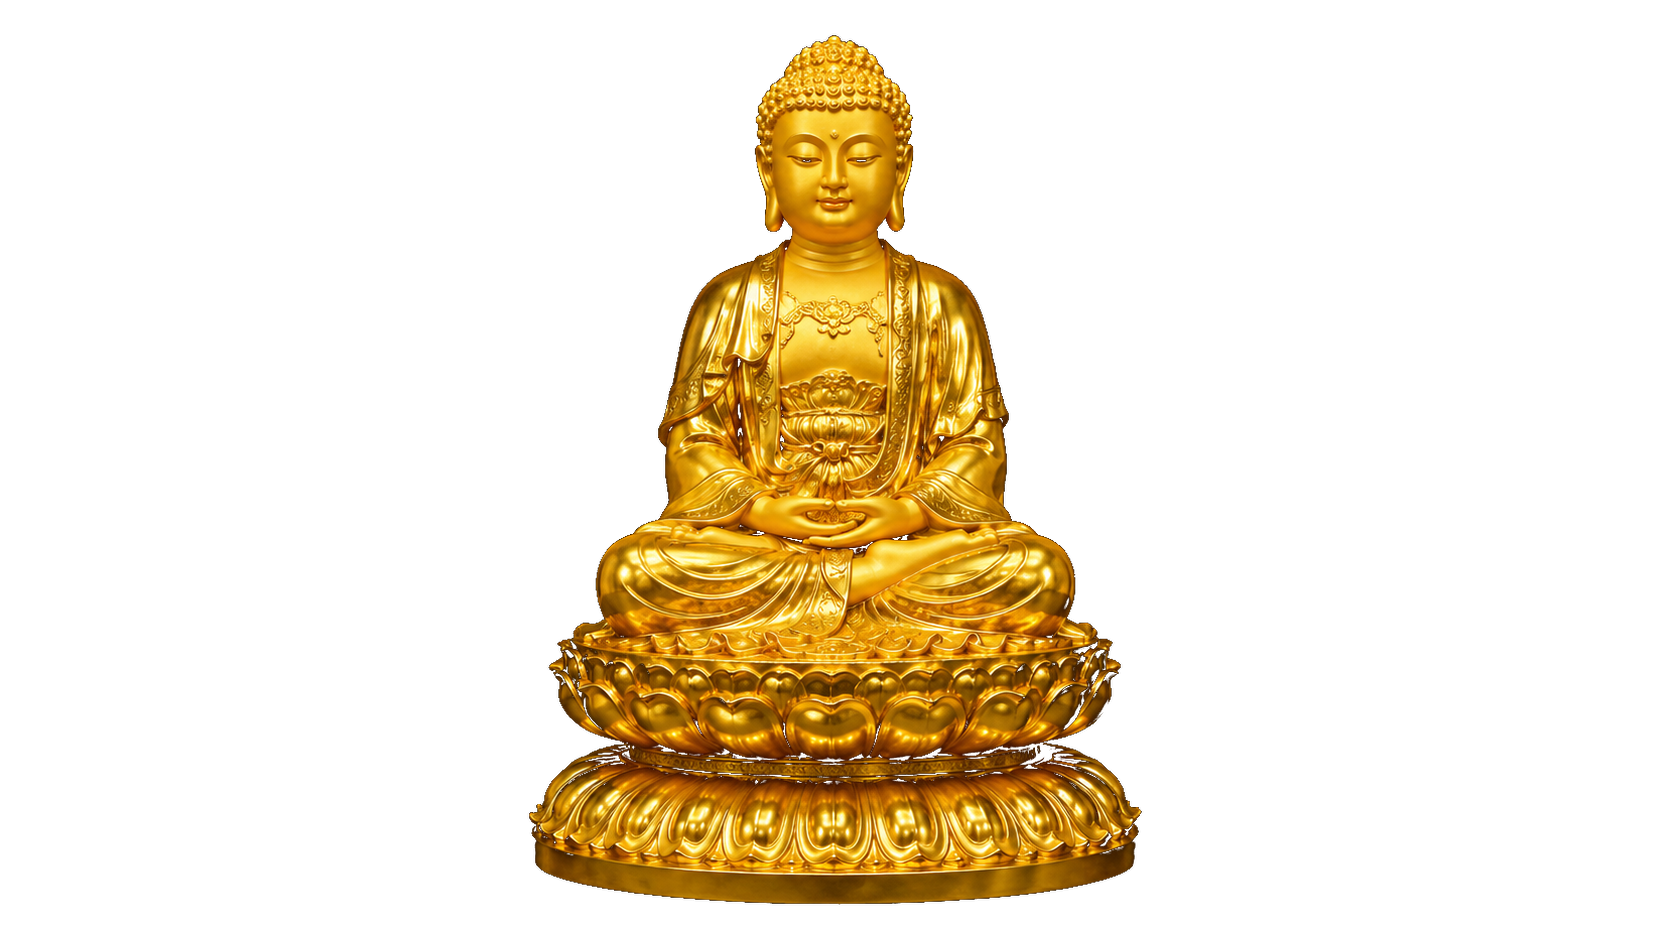
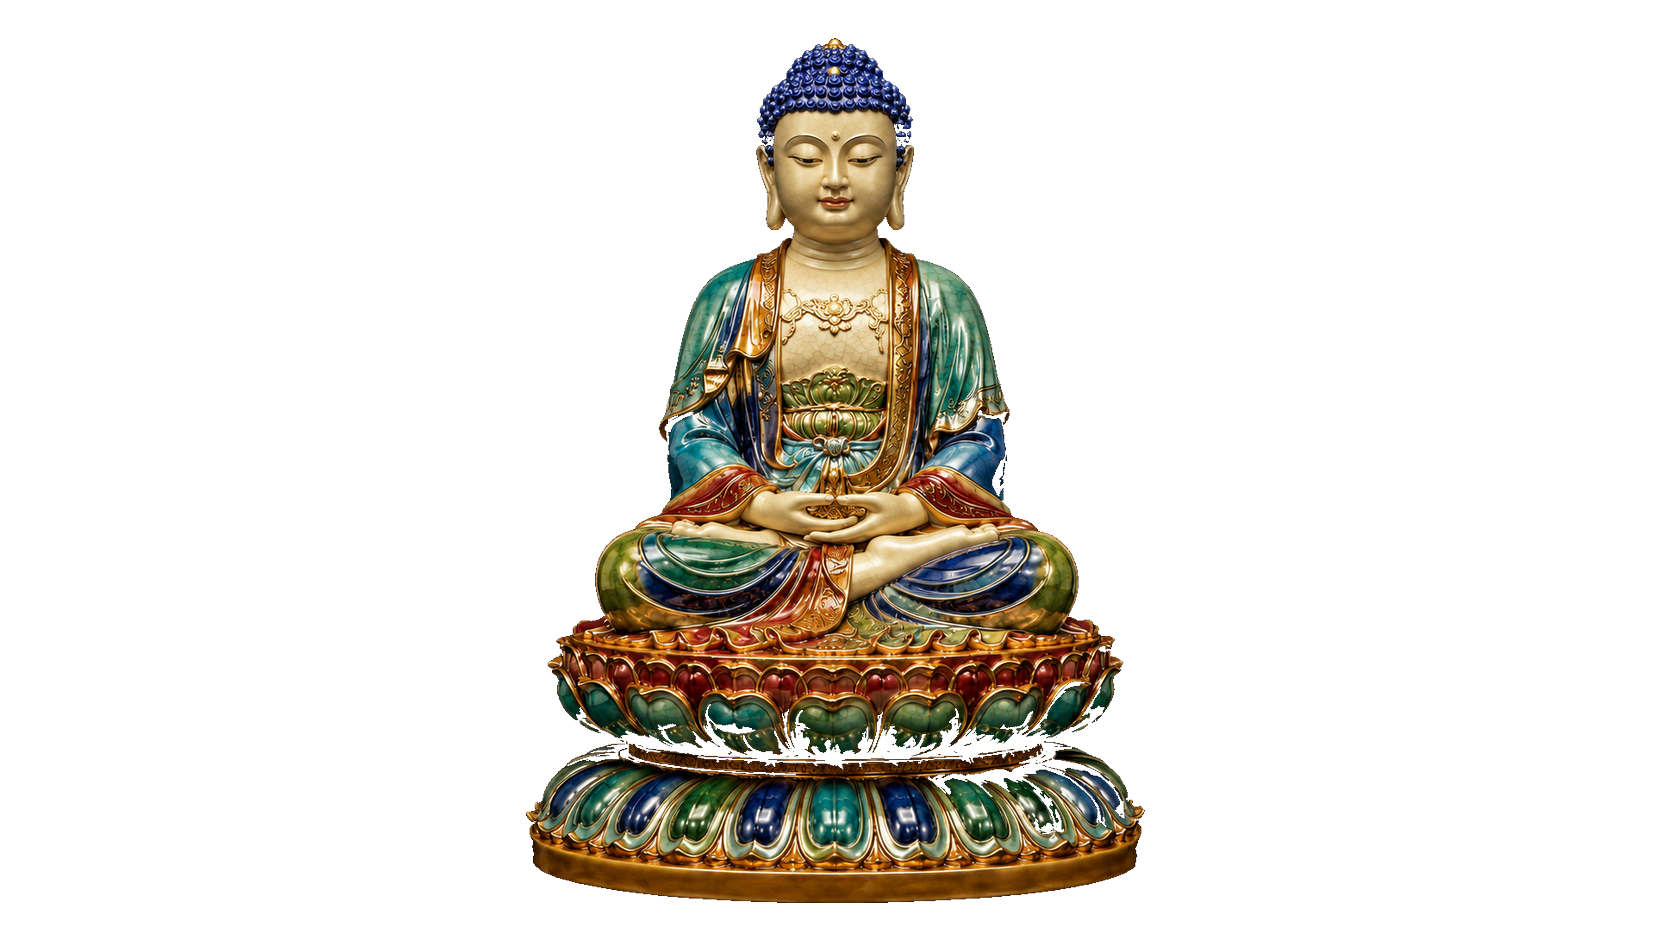
feat: 换掉八位佛菩萨图片（景泰蓝质感一套）
八张新图与站内 slug 一一对应，逐张比对确认：
  a1 释迦牟尼佛（施无畏印·围栏莲台）  a5 文殊菩萨（白狮·彩云座）
  a2 阿弥陀佛（禅定印·双层莲台）      a6 普贤菩萨（白象·粉莲）
  a3 药师佛（托药钵）                 a7 观音菩萨（杨枝净瓶）
  a4 弥勒佛（持念珠）                 a8 地藏菩萨（锡杖·明珠）

新图是黑底且尺寸不一（1448x1086 / 1086x1448 / 1122x1402），不能直接替换：
站内 a1-a8 全是 1672x941 的 RGBA 透明图，透明背景是必需的 —— 佛像要合成到
礼佛场景上，首页卡片又把图裁成圆形、底下垫紫色渐变，黑底会变成紫圆里一块黑方块。

新增 scripts/replace_buddha_images.py 做统一处理：
- 抠底用四边泛洪而非亮度阈值。佛像头发是深蓝近黑，阈值法会连头发一起吃掉；
  泛洪只吃与边缘连通的背景，实测被主体包围的 (12,12,40) 像素完整保留
- 裁到主体外接框后等比缩放居中放进 1672x941 画布，竖构图不会被拉伸
- 生成 400x225 webp 缩略图，并刷新 buddhas.js 里的 ?v= 缓存版本号
- 旧图备份到 public/_buddha_backup（未入库）

复核：八张均 1672x941 RGBA，主体占画布高 92%，与旧图 87-97% 持平，无缩水；
合成到卡片紫底上无黑边；首页八张卡片与三个详情页均正常加载。

Changed region(s): [[0.311, 0.0308, 0.6842, 0.9862]]

diff --git a/frontend/src/data/buddhas.js b/frontend/src/data/buddhas.js
@@ -5,8 +5,8 @@ export const BUDDHAS = [
     title: '本师释迦牟尼佛',
     subtitle: '娑婆世界教主',
     namo: '南无本师释迦牟尼佛',
-    image: '/a1.png',
-    thumb: '/thumbs/buddha-a1.webp',
+    image: '/a1.png?v=20260810',
+    thumb: '/thumbs/buddha-a1.webp?v=20260810',
     desc: '释迦牟尼佛，娑婆世界教主，三界导师，四生慈父。礼敬本师，可消业障、增福慧、开智慧，是一切修行之根本。',
     themes: '消除业障、增长福慧、开启智慧，以及修行入门与发愿回向',
     wish: '愿以此功德。庄严佛净土。上报四重恩。下济三途苦。若有见闻者。悉发菩提心。尽此一报身。同生极乐国。'
@@ -17,8 +17,8 @@ export const BUDDHAS = [
     title: '西方极乐世界教主',
     subtitle: '接引导师',
     namo: '南无阿弥陀佛',
-    image: '/a2.png?v=20260531b',
-    thumb: '/thumbs/buddha-a2.webp?v=20260531b',
+    image: '/a2.png?v=20260810',
+    thumb: '/thumbs/buddha-a2.webp?v=20260810',
     desc: '阿弥陀佛，西方极乐世界教主，四十八大愿接引十方一切念佛众生，往生净土，不退成佛。',
     themes: '念佛往生、临终关怀、超荐先亡，以及求生净土与消除烦恼',
     wish: '愿生西方净土中，九品莲花为父母。花开见佛悟无生，不退菩萨为伴侣。愿消三障诸烦恼，愿得智慧真明了，普愿罪障悉消除，世世常行菩萨道。'
@@ -29,8 +29,8 @@ export const BUDDHAS = [
     title: '东方净琉璃世界教主',
     subtitle: '消灾延寿药师佛',
     namo: '南无药师琉璃光如来',
-    image: '/a3.png',
-    thumb: '/thumbs/buddha-a3.webp',
+    image: '/a3.png?v=20260810',
+    thumb: '/thumbs/buddha-a3.webp?v=20260810',
     desc: '药师琉璃光如来，发十二大愿，消众生病苦、延寿增福，是修福报、消业障、求健康长寿之殊胜法门。',
     themes: '身体健康、消灾延寿、病中祈福，以及身心安稳与增长福报',
     wish: '愿消三障诸烦恼，愿得智慧真明了，普愿罪障悉消除，世世常行菩萨道。南无消灾延寿药师佛，愿得无病无灾，身心安乐，寿命绵长。'
@@ -41,8 +41,8 @@ export const BUDDHAS = [
     title: '当来下生弥勒尊佛',
     subtitle: '兜率内院',
     namo: '南无当来下生弥勒尊佛',
-    image: '/a4.png',
-    thumb: '/thumbs/buddha-a4.webp',
+    image: '/a4.png?v=20260810',
+    thumb: '/thumbs/buddha-a4.webp?v=20260810',
     desc: '弥勒菩萨现居兜率内院，未来当于此土成佛，以欢喜慈悲之心度化众生，象征未来光明与希望。',
     themes: '欢喜安乐、求顺求子、心怀希望，以及发愿往生兜率内院',
     wish: '愿以欢喜心，供养弥勒尊。愿消一切苦，同享弥勒慈。愿生兜率天，亲侍弥勒前，闻法修菩提，同证无上道。'
@@ -53,8 +53,8 @@ export const BUDDHAS = [
     title: '大智文殊师利菩萨',
     subtitle: '五台山道场',
     namo: '南无大智文殊师利菩萨',
-    image: '/a5.png',
-    thumb: '/thumbs/buddha-a5.webp',
+    image: '/a5.png?v=20260810',
+    thumb: '/thumbs/buddha-a5.webp?v=20260810',
     desc: '文殊师利菩萨为大智慧之象征，手持宝剑斩断烦恼，乘狮子表威猛无畏，助众生开启智慧、破无明痴暗。',
     themes: '增长智慧、学业考试、思路清明，以及破除无明痴暗',
     wish: '愿以文殊大智慧，照破无明诸暗冥。愿我智慧日增长，善解义趣入深法。普愿众生同开悟，齐登正觉彼岸行。'
@@ -65,8 +65,8 @@ export const BUDDHAS = [
     title: '大行普贤菩萨',
     subtitle: '峨眉山道场',
     namo: '南无大行普贤菩萨',
-    image: '/a6.png?v=20260531b',
-    thumb: '/thumbs/buddha-a6.webp?v=20260531b',
+    image: '/a6.png?v=20260810',
+    thumb: '/thumbs/buddha-a6.webp?v=20260810',
     desc: '普贤菩萨以十大行愿王为修行纲领，乘六牙白象，象征行愿广大无边，引导众生实践菩提道，成就佛果。',
     themes: '事业精进、行愿坚固、修行有成，以及广行善法回向众生',
     wish: '愿我行普贤行，礼敬诸佛不退转。愿以十大行愿力，庄严净土利众生。愿我临终无障碍，面见弥陀生极乐，同登普贤广大行，圆满菩提证佛果。'
@@ -77,8 +77,8 @@ export const BUDDHAS = [
     title: '大悲观世音菩萨',
     subtitle: '普陀山道场',
     namo: '南无大悲观世音菩萨',
-    image: '/a7.png?v=20260531b',
-    thumb: '/thumbs/buddha-a7.webp?v=20260531b',
+    image: '/a7.png?v=20260810',
+    thumb: '/thumbs/buddha-a7.webp?v=20260810',
     desc: '观世音菩萨大慈大悲，寻声救苦，三十二应化身广度众生。礼敬观音，消灾解难、求子求财、度亡超荐皆有感应。',
     themes: '消灾解难、求平安、求子求财、慈悲护念，以及度亡超荐',
     wish: '愿以此功德。庄严佛净土。上报四重恩。下济三途苦。若有见闻者。悉发菩提心。尽此一报身。同生极乐国。愿消三障诸烦恼，愿得智慧真明了，普愿罪障悉消除，世世常行菩萨道。'
@@ -89,8 +89,8 @@ export const BUDDHAS = [
     title: '大愿地藏王菩萨',
     subtitle: '九华山道场',
     namo: '南无大愿地藏王菩萨',
-    image: '/a8.png?v=20260531b',
-    thumb: '/thumbs/buddha-a8.webp?v=20260531b',
+    image: '/a8.png?v=20260810',
+    thumb: '/thumbs/buddha-a8.webp?v=20260810',
     desc: '地藏王菩萨发宏誓愿："地狱不空，誓不成佛；众生度尽，方证菩提。"慈悲救度幽冥众生，超荐历代祖先。',
     themes: '超荐先亡、追思祖先、消除幽冥之苦，以及忏悔业障与功德回向',
     wish: '愿以地藏大愿力，超荐历代诸先亡。愿消一切幽冥苦，早日离苦得安乐。愿我罪障悉消除，福慧双增道业成，临命终时无障碍，往生净土见弥陀。'

diff --git a/frontend/scripts/replace_buddha_images.py b/frontend/scripts/replace_buddha_images.py
@@ -1,0 +1,198 @@
+#!/usr/bin/env python3
+"""把新的佛像图换进站内，统一成现有规格。
+
+为什么需要处理而不能直接丢进 public/：
+  1. 现有 a1-a8 全是 1672x941 的 RGBA 透明图。透明背景是必需的 ——
+     佛像要合成到礼佛场景（PrayerStage）上，首页卡片又把图裁成圆形、
+     底下垫紫色渐变。带黑底的图放上去就是紫圆里一块黑方块。
+  2. 新图有竖构图，直接拉伸会变形；正确做法是等比缩放后居中放进 16:9 画布。
+
+抠底用的是从四边泛洪填充，而不是按亮度阈值：佛像的头发是深蓝近黑，
+阈值法会把头发一起吃掉，泛洪只吃与边缘连通的背景。
+
+用法：
+    python scripts/replace_buddha_images.py <源目录> [--dry-run]
+
+源目录里放 8 张图，按文件名排序对应：
+    1 -> a1 释迦牟尼佛      5 -> a5 文殊菩萨
+    2 -> a2 阿弥陀佛        6 -> a6 普贤菩萨
+    3 -> a3 药师佛          7 -> a7 观音菩萨
+    4 -> a4 弥勒佛          8 -> a8 地藏菩萨
+也可以直接把文件命名成 a1.png ... a8.png，脚本会优先按这个匹配。
+"""
+
+import os
+import re
+import shutil
+import sys
+from collections import deque
+from datetime import date
+
+from PIL import Image
+
+CANVAS = (1672, 941)          # 与现有 a1-a8 一致
+THUMB_W = 400                 # 与现有较大的一档缩略图一致
+MARGIN = 0.04                 # 主体四周留白比例，避免贴边
+BG_TOLERANCE = 36             # 判定为背景的亮度上限（0-255）
+
+SLUGS = [
+    ('a1', '释迦牟尼佛'), ('a2', '阿弥陀佛'), ('a3', '药师佛'), ('a4', '弥勒佛'),
+    ('a5', '文殊菩萨'), ('a6', '普贤菩萨'), ('a7', '观音菩萨'), ('a8', '地藏菩萨'),
+]
+
+ROOT = os.path.dirname(os.path.dirname(os.path.abspath(__file__)))
+PUBLIC = os.path.join(ROOT, 'public')
+THUMBS = os.path.join(PUBLIC, 'thumbs')
+BUDDHAS_JS = os.path.join(ROOT, 'src', 'data', 'buddhas.js')
+
+
+def remove_black_background(im):
+    """从四边泛洪，把与边缘连通的近黑像素设为透明。
+
+    只吃连通区域，所以佛像内部的深色（头发、暗部阴影）不会被误伤。
+    """
+    im = im.convert('RGBA')
+    w, h = im.size
+    px = im.load()
+
+    def is_bg(x, y):
+        r, g, b, a = px[x, y]
+        return a > 0 and max(r, g, b) <= BG_TOLERANCE
+
+    seen = bytearray(w * h)
+    q = deque()
+
+    for x in range(w):
+        for y in (0, h - 1):
+            if not seen[y * w + x] and is_bg(x, y):
+                seen[y * w + x] = 1
+                q.append((x, y))
+    for y in range(h):
+        for x in (0, w - 1):
+            if not seen[y * w + x] and is_bg(x, y):
+                seen[y * w + x] = 1
+                q.append((x, y))
+
+    while q:
+        x, y = q.popleft()
+        px[x, y] = (0, 0, 0, 0)
+        for dx, dy in ((1, 0), (-1, 0), (0, 1), (0, -1)):
+            nx, ny = x + dx, y + dy
+            if 0 <= nx < w and 0 <= ny < h and not seen[ny * w + nx] and is_bg(nx, ny):
+                seen[ny * w + nx] = 1
+                q.append((nx, ny))
+
+    return im
+
+
+def fit_to_canvas(im):
+    """裁到主体外接框，再等比缩放居中放进 16:9 透明画布。"""
+    bbox = im.getbbox()
+    if bbox:
+        im = im.crop(bbox)
+
+    cw, ch = CANVAS
+    avail_w = int(cw * (1 - MARGIN * 2))
+    avail_h = int(ch * (1 - MARGIN * 2))
+    scale = min(avail_w / im.width, avail_h / im.height)
+    new = im.resize((max(1, round(im.width * scale)), max(1, round(im.height * scale))), Image.LANCZOS)
+
+    canvas = Image.new('RGBA', CANVAS, (0, 0, 0, 0))
+    canvas.paste(new, ((cw - new.width) // 2, (ch - new.height) // 2), new)
+    return canvas
+
+
+def collect_sources(src_dir):
+    files = [f for f in os.listdir(src_dir)
+             if os.path.splitext(f)[1].lower() in ('.png', '.jpg', '.jpeg', '.webp')]
+    if not files:
+        sys.exit(f'源目录里没有图片：{src_dir}')
+
+    by_slug = {}
+    for f in files:
+        m = re.match(r'^(a[1-8])\b', os.path.splitext(f)[0], re.I)
+        if m:
+            by_slug[m.group(1).lower()] = f
+
+    if len(by_slug) == 8:
+        return [os.path.join(src_dir, by_slug[s]) for s, _ in SLUGS]
+
+    if len(files) != 8:
+        sys.exit(f'需要正好 8 张图（或按 a1..a8 命名），当前有 {len(files)} 张：{sorted(files)}')
+
+    def key(f):
+        m = re.search(r'\d+', f)
+        return (int(m.group()) if m else 0, f)
+
+    return [os.path.join(src_dir, f) for f in sorted(files, key=key)]
+
+
+def bump_cache_version(dry_run):
+    """刷新 buddhas.js 里的 ?v= 版本号，避免 CDN 与浏览器拿旧图。"""
+    stamp = date.today().strftime('%Y%m%d')
+    with open(BUDDHAS_JS, encoding='utf-8') as fh:
+        src = fh.read()
+
+    def repl(m):
+        return f"{m.group(1)}?v={stamp}"
+
+    out = re.sub(r"('/(?:a[1-8]\.png|thumbs/buddha-a[1-8]\.webp))(?:\?v=[^']*)?", repl, src)
+    changed = out != src
+    if changed and not dry_run:
+        with open(BUDDHAS_JS, 'w', encoding='utf-8') as fh:
+            fh.write(out)
+    return stamp, changed
+
+
+def main():
+    args = [a for a in sys.argv[1:] if a != '--dry-run']
+    dry_run = '--dry-run' in sys.argv
+    if not args:
+        sys.exit(__doc__)
+
+    src_dir = args[0]
+    if not os.path.isdir(src_dir):
+        sys.exit(f'源目录不存在：{src_dir}')
+
+    sources = collect_sources(src_dir)
+    backup = os.path.join(PUBLIC, '_buddha_backup')
+
+    print(f'源目录：{src_dir}')
+    print(f'画布：{CANVAS[0]}x{CANVAS[1]}   缩略图宽：{THUMB_W}   {"（试跑，不写文件）" if dry_run else ""}\n')
+
+    if not dry_run:
+        os.makedirs(backup, exist_ok=True)
+        os.makedirs(THUMBS, exist_ok=True)
+
+    for (slug, name), src in zip(SLUGS, sources):
+        im = Image.open(src)
+        orig = im.size
+        im = remove_black_background(im)
+        bbox_before = im.getbbox()
+        im = fit_to_canvas(im)
+
+        target_png = os.path.join(PUBLIC, f'{slug}.png')
+        target_webp = os.path.join(THUMBS, f'buddha-{slug}.webp')
+
+        if not dry_run:
+            for t in (target_png, target_webp):
+                if os.path.exists(t):
+                    shutil.copy2(t, os.path.join(backup, os.path.basename(t)))
+            im.save(target_png, 'PNG', optimize=True)
+            thumb = im.resize((THUMB_W, round(THUMB_W * CANVAS[1] / CANVAS[0])), Image.LANCZOS)
+            thumb.save(target_webp, 'WEBP', quality=86, method=6)
+
+        kb = os.path.getsize(target_png) // 1024 if (not dry_run and os.path.exists(target_png)) else 0
+        print(f'  {slug}  {name:<8} ← {os.path.basename(src)}')
+        print(f'        原图 {orig[0]}x{orig[1]}  抠底后主体 {bbox_before[2]-bbox_before[0]}x{bbox_before[3]-bbox_before[1]}'
+              + (f'  输出 {kb}KB' if kb else ''))
+
+    stamp, changed = bump_cache_version(dry_run)
+    print(f'\n缓存版本号 ?v={stamp} ' + ('已写入 buddhas.js' if changed else '（无需改动）'))
+    if not dry_run:
+        print(f'旧图已备份到 {backup}')
+    print('\n接着执行：npm run build，然后部署。')
+
+
+if __name__ == '__main__':
+    main()
